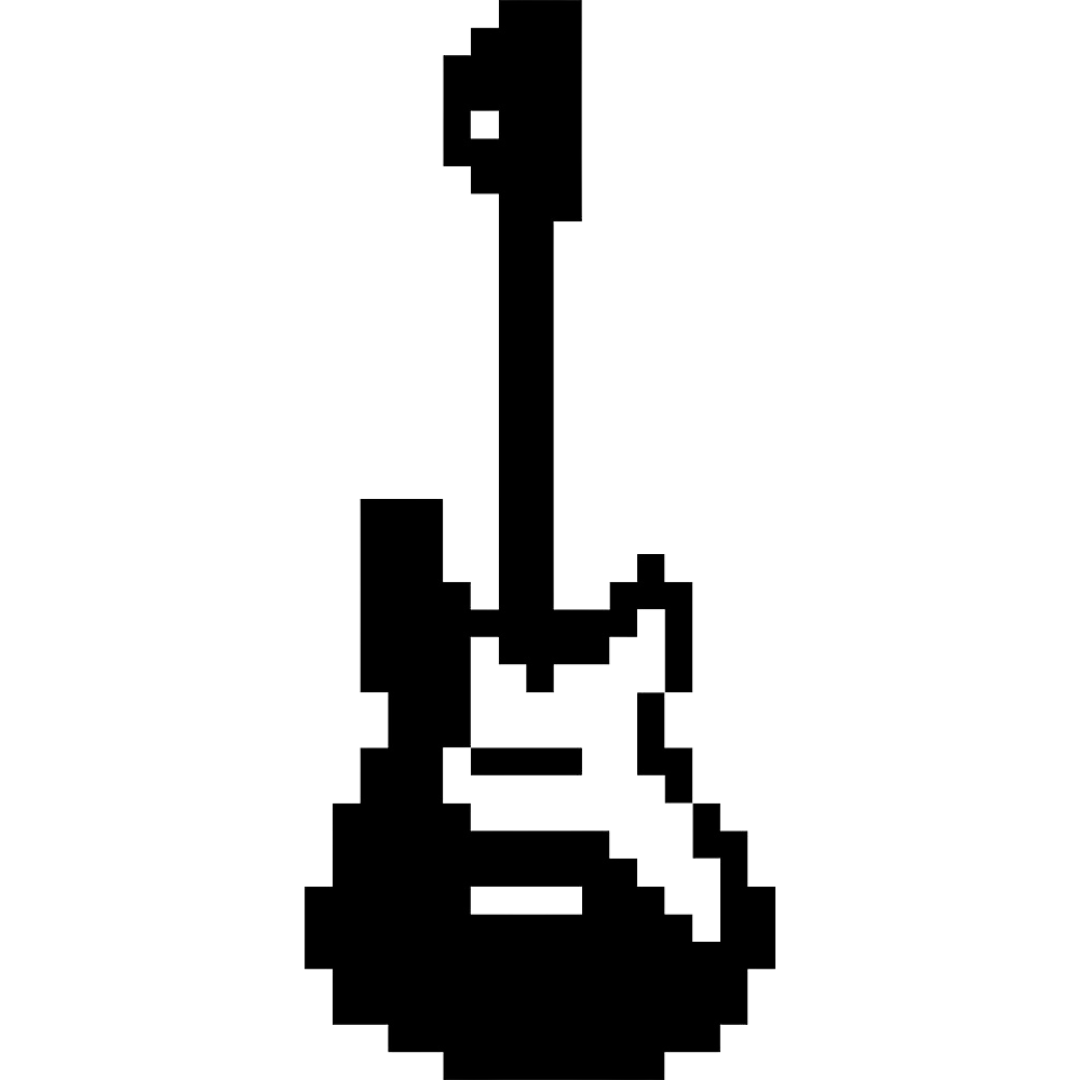
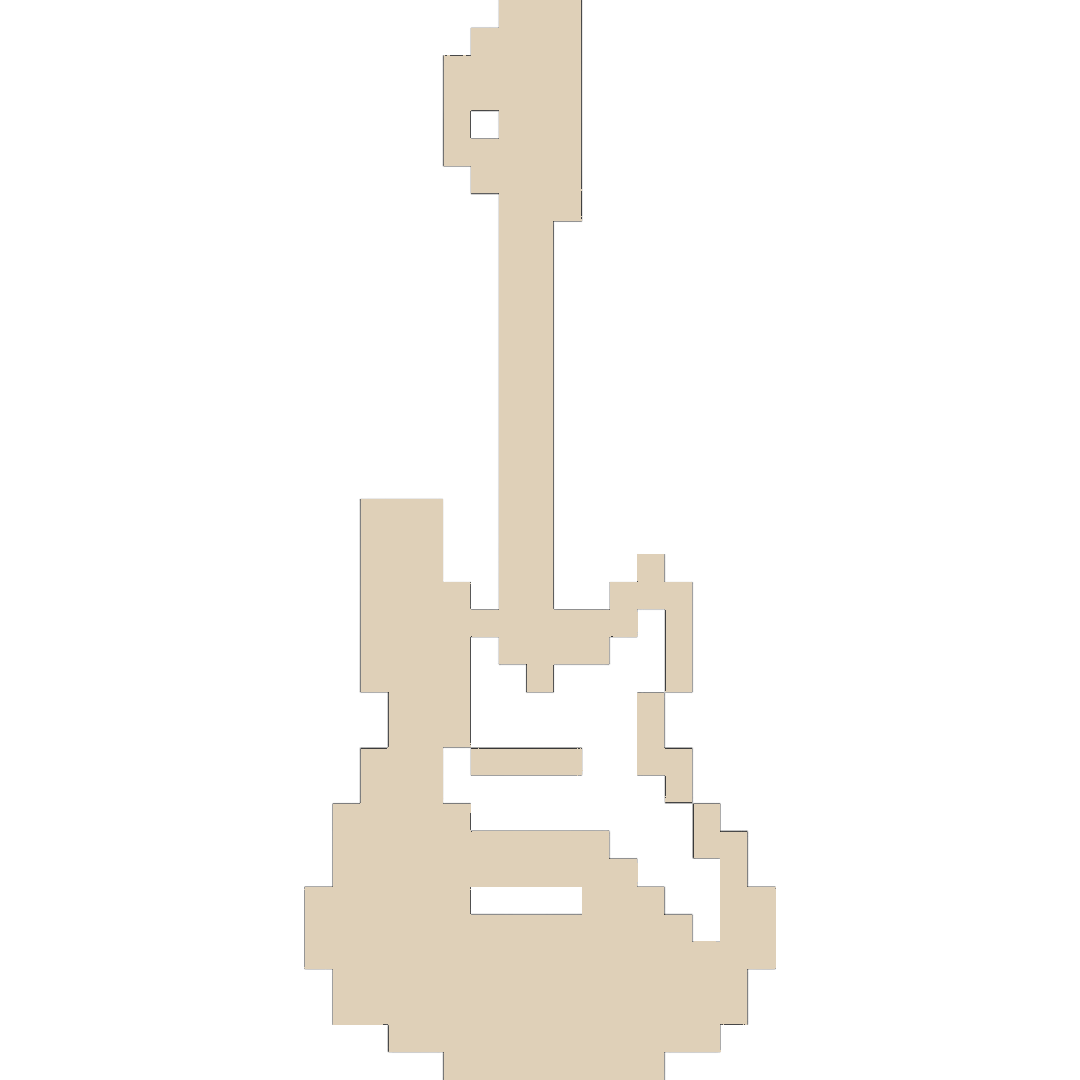
fixed marquee and changed guitar image colour

Changed region(s): [[0.275, 0.0, 0.7333, 1.0]]

diff --git a/frontend/src/scss/Marquee.css b/frontend/src/scss/Marquee.css
@@ -1,9 +1,12 @@
+@import url("https://fonts.googleapis.com/css2?family=Red+Hat+Display:ital,wght@0,300..900;1,300..900&display=swap");
+@import url("https://fonts.googleapis.com/css2?family=Sonsie+One&display=swap");
 .marquee {
   position: relative;
   width: 100vw;
   max-width: 100%;
   height: 206px;
   overflow-x: hidden;
+  background-color: #153448;
 }
 
 .track {
@@ -14,16 +17,20 @@
 .track > h1 {
   margin: 20px 0;
   font-size: 3rem;
-  width: 2080px;
-  font-family: Antonio;
+  width: 1985px;
+  font-family: "Red Hat Display", sans-serif;
+  font-optical-sizing: auto;
+  font-style: normal;
+  font-weight: 700;
   -webkit-text-fill-color: rgba(255, 255, 255, 0);
   -webkit-text-stroke-width: 2px;
   -webkit-text-stroke-color: #DFD0B8;
   text-transform: uppercase;
-  border: 1px solid red;
+  border: 0.1px #DFD0B8 solid;
 }
 
 img {
+  margin: 0px 2%;
   width: 100px;
   transform: rotate(90deg);
 }

diff --git a/frontend/src/components/Marquee.jsx b/frontend/src/components/Marquee.jsx
@@ -7,12 +7,12 @@ import "../scss/Marquee.css";
 // 2. Defining Variants
 const marqueeVariants = {
   animate: {
-    x: [0, -2080],
+    x: [0, -1985],
     transition: {
       x: {
         repeat: Infinity,
         repeatType: "loop",
-        duration: 5,
+        duration: 4,
         ease: "linear",
       },
     },
@@ -30,7 +30,8 @@ const Marquee = () => {
           variants={marqueeVariants}
           animate="animate"
         >
-          <h1>Let's Work Together. <img src={img} alt="Guitar" /></h1>
+          <h1>Book Now <img src={img} alt="Guitar" /> 
+           </h1>
         </motion.div>
       </div>
     </div>

diff --git a/frontend/src/scss/Marquee.scss b/frontend/src/scss/Marquee.scss
@@ -6,6 +6,8 @@
   max-width: 100%;
   height: 206px;
   overflow-x: hidden;
+  background-color: $backgroundColor;
+  
 }
 
 .track {
@@ -16,16 +18,17 @@
 .track > h1 {
   margin: 20px 0;
   font-size: 3rem;
-  width: 2080px;
-  font-family: Antonio;
+  width: 1985px;
+  @include mainFont();
   -webkit-text-fill-color: rgba(255, 255, 255, 0);
   -webkit-text-stroke-width: 2px;
   -webkit-text-stroke-color: $textColor;
   text-transform: uppercase;
-  border: 1px solid red; 
+  border: 0.1px $textColor solid;
 }
 
 img{
+  margin: 0px 2%;
   width: 100px;
   transform: rotate(90deg);
 }

diff --git a/frontend/src/scss/_color.scss b/frontend/src/scss/_color.scss
@@ -1,2 +1,20 @@
+@import url('https://fonts.googleapis.com/css2?family=Red+Hat+Display:ital,wght@0,300..900;1,300..900&display=swap');
+@import url('https://fonts.googleapis.com/css2?family=Sonsie+One&display=swap');
+
 $backgroundColor: #153448;
 $textColor:  #DFD0B8;
+
+
+@mixin mainFont{
+    font-family: "Red Hat Display", sans-serif;
+     font-optical-sizing: auto;
+     font-style: normal;
+     font-weight: 700;
+   }
+   
+   @mixin titleFont{
+       font-family: "Sonsie One", system-ui;
+     font-weight: 400;
+     font-style: normal;
+     font-size: 3em;
+   }

diff --git a/frontend/src/scss/App.css b/frontend/src/scss/App.css
@@ -1,5 +1,11 @@
 @import url("https://fonts.googleapis.com/css2?family=Red+Hat+Display:ital,wght@0,300..900;1,300..900&display=swap");
 @import url("https://fonts.googleapis.com/css2?family=Sonsie+One&display=swap");
+@import url("https://fonts.googleapis.com/css2?family=Red+Hat+Display:ital,wght@0,300..900;1,300..900&display=swap");
+@import url("https://fonts.googleapis.com/css2?family=Sonsie+One&display=swap");
+html {
+  background-color: #153448;
+}
+
 body {
   background-color: #153448;
   color: #DFD0B8;

diff --git a/frontend/src/scss/App.scss b/frontend/src/scss/App.scss
@@ -18,7 +18,9 @@
   font-size: 3em;
 }
 
-
+html{
+  background-color: $backgroundColor;
+}
 body {
     background-color: $backgroundColor;
     color: $textColor;
